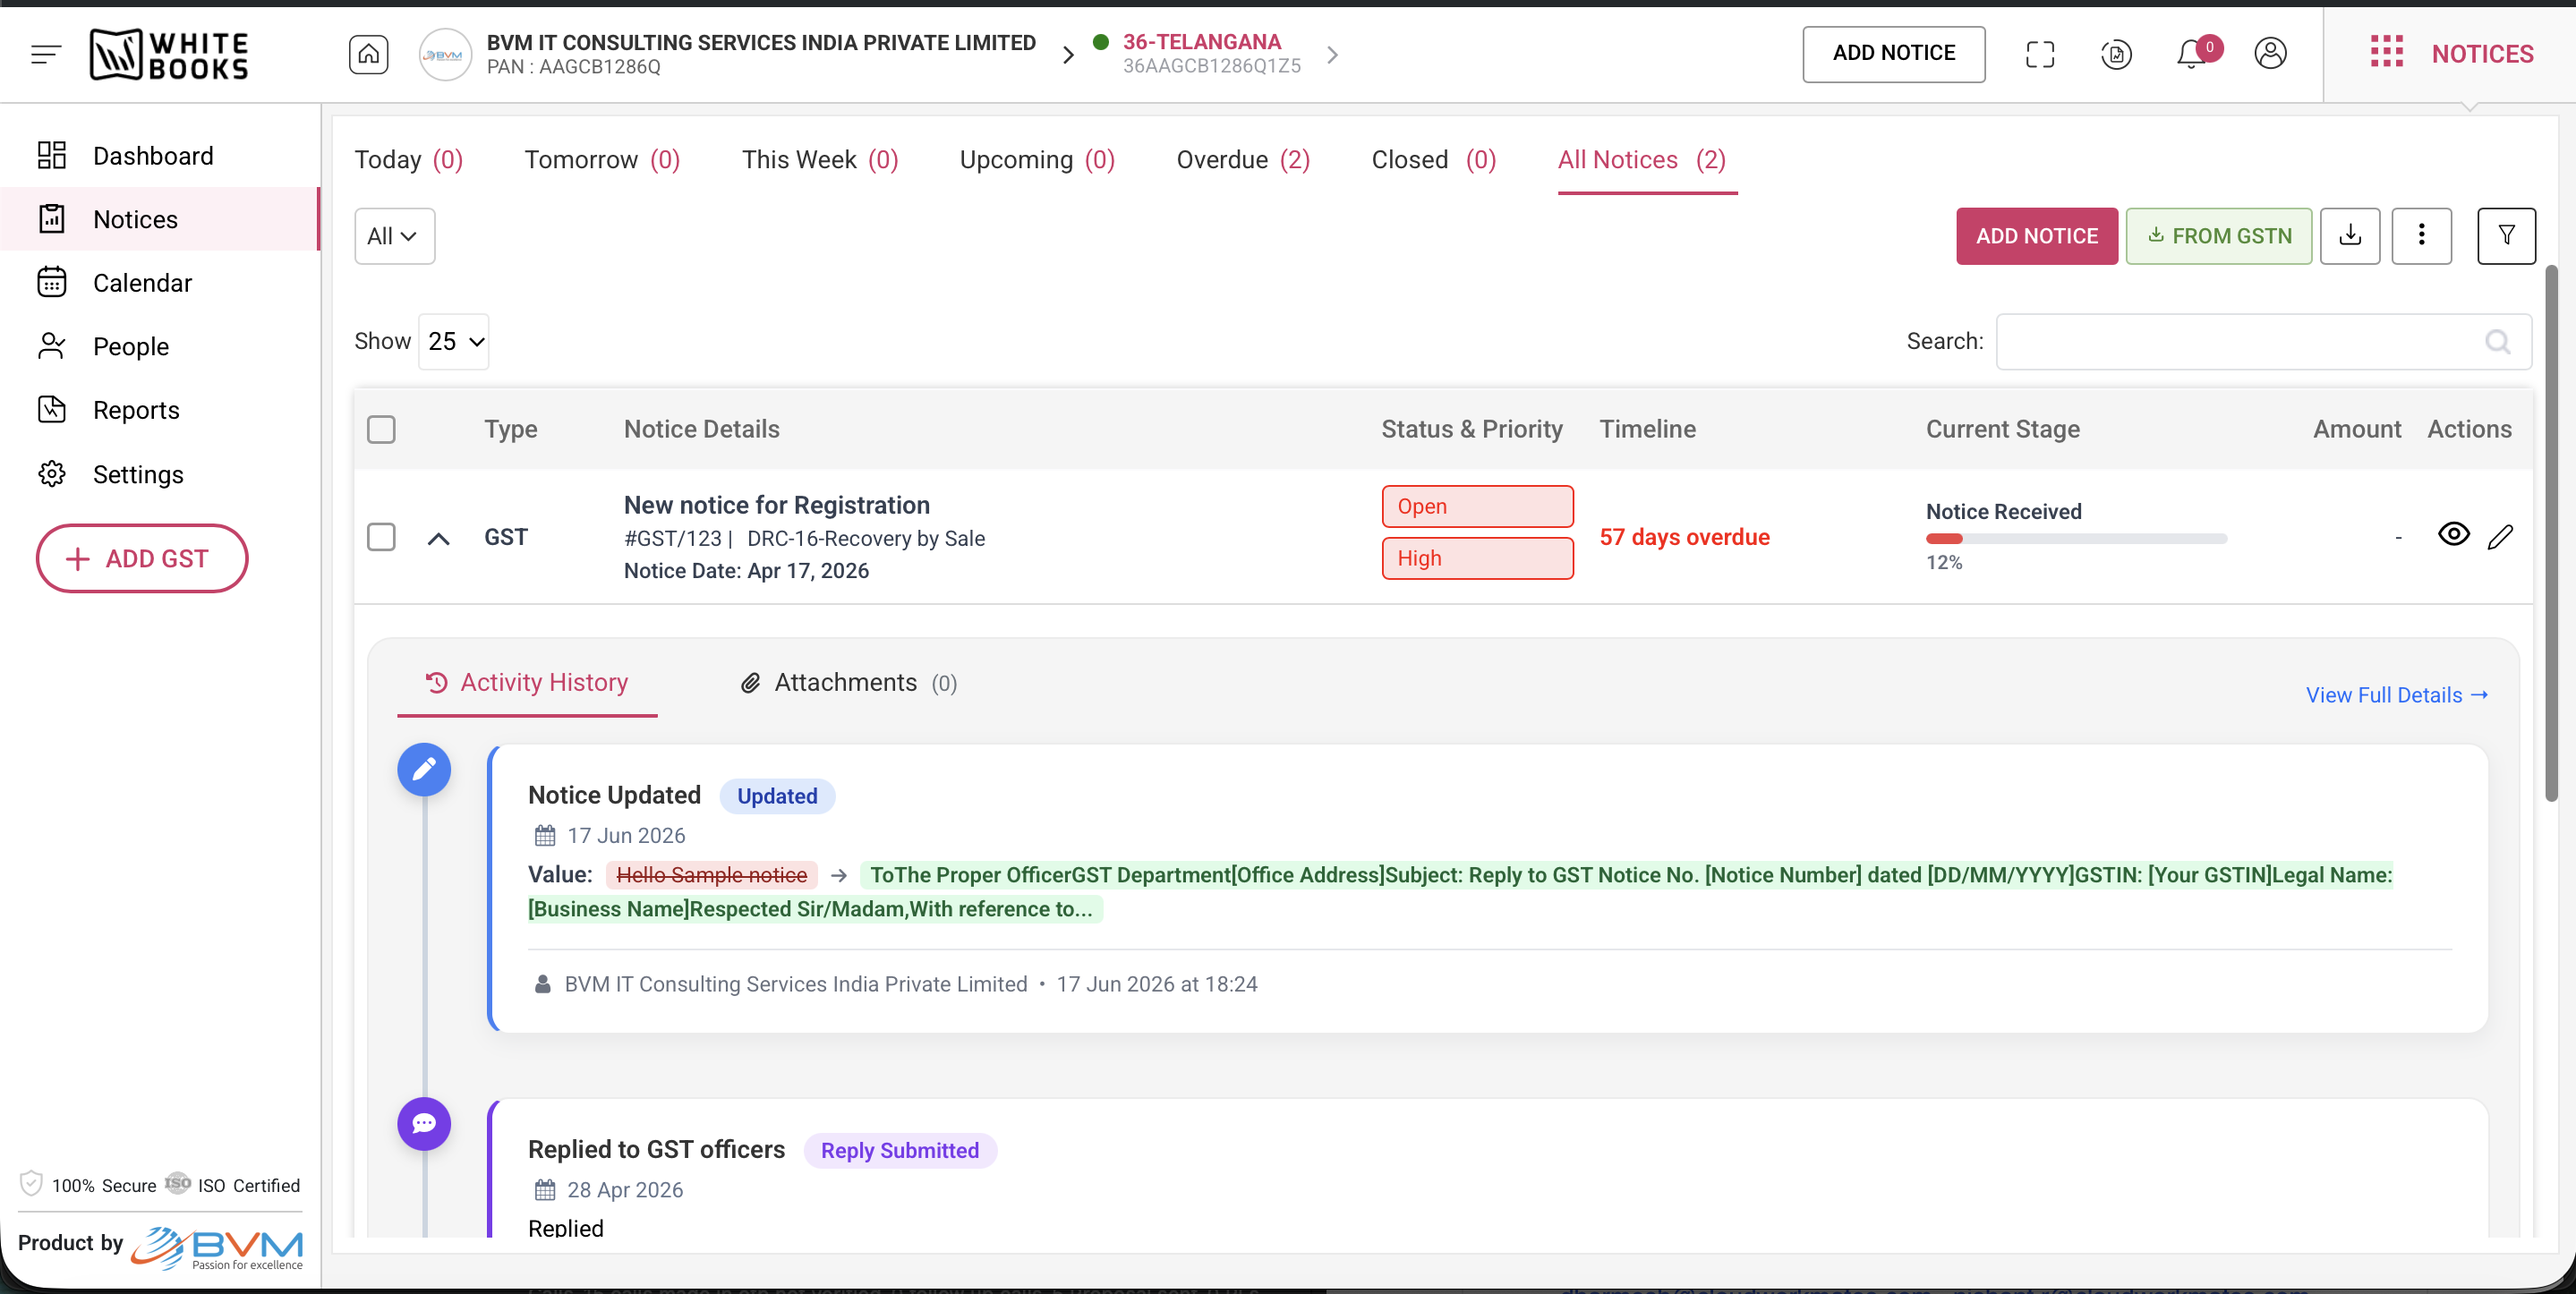
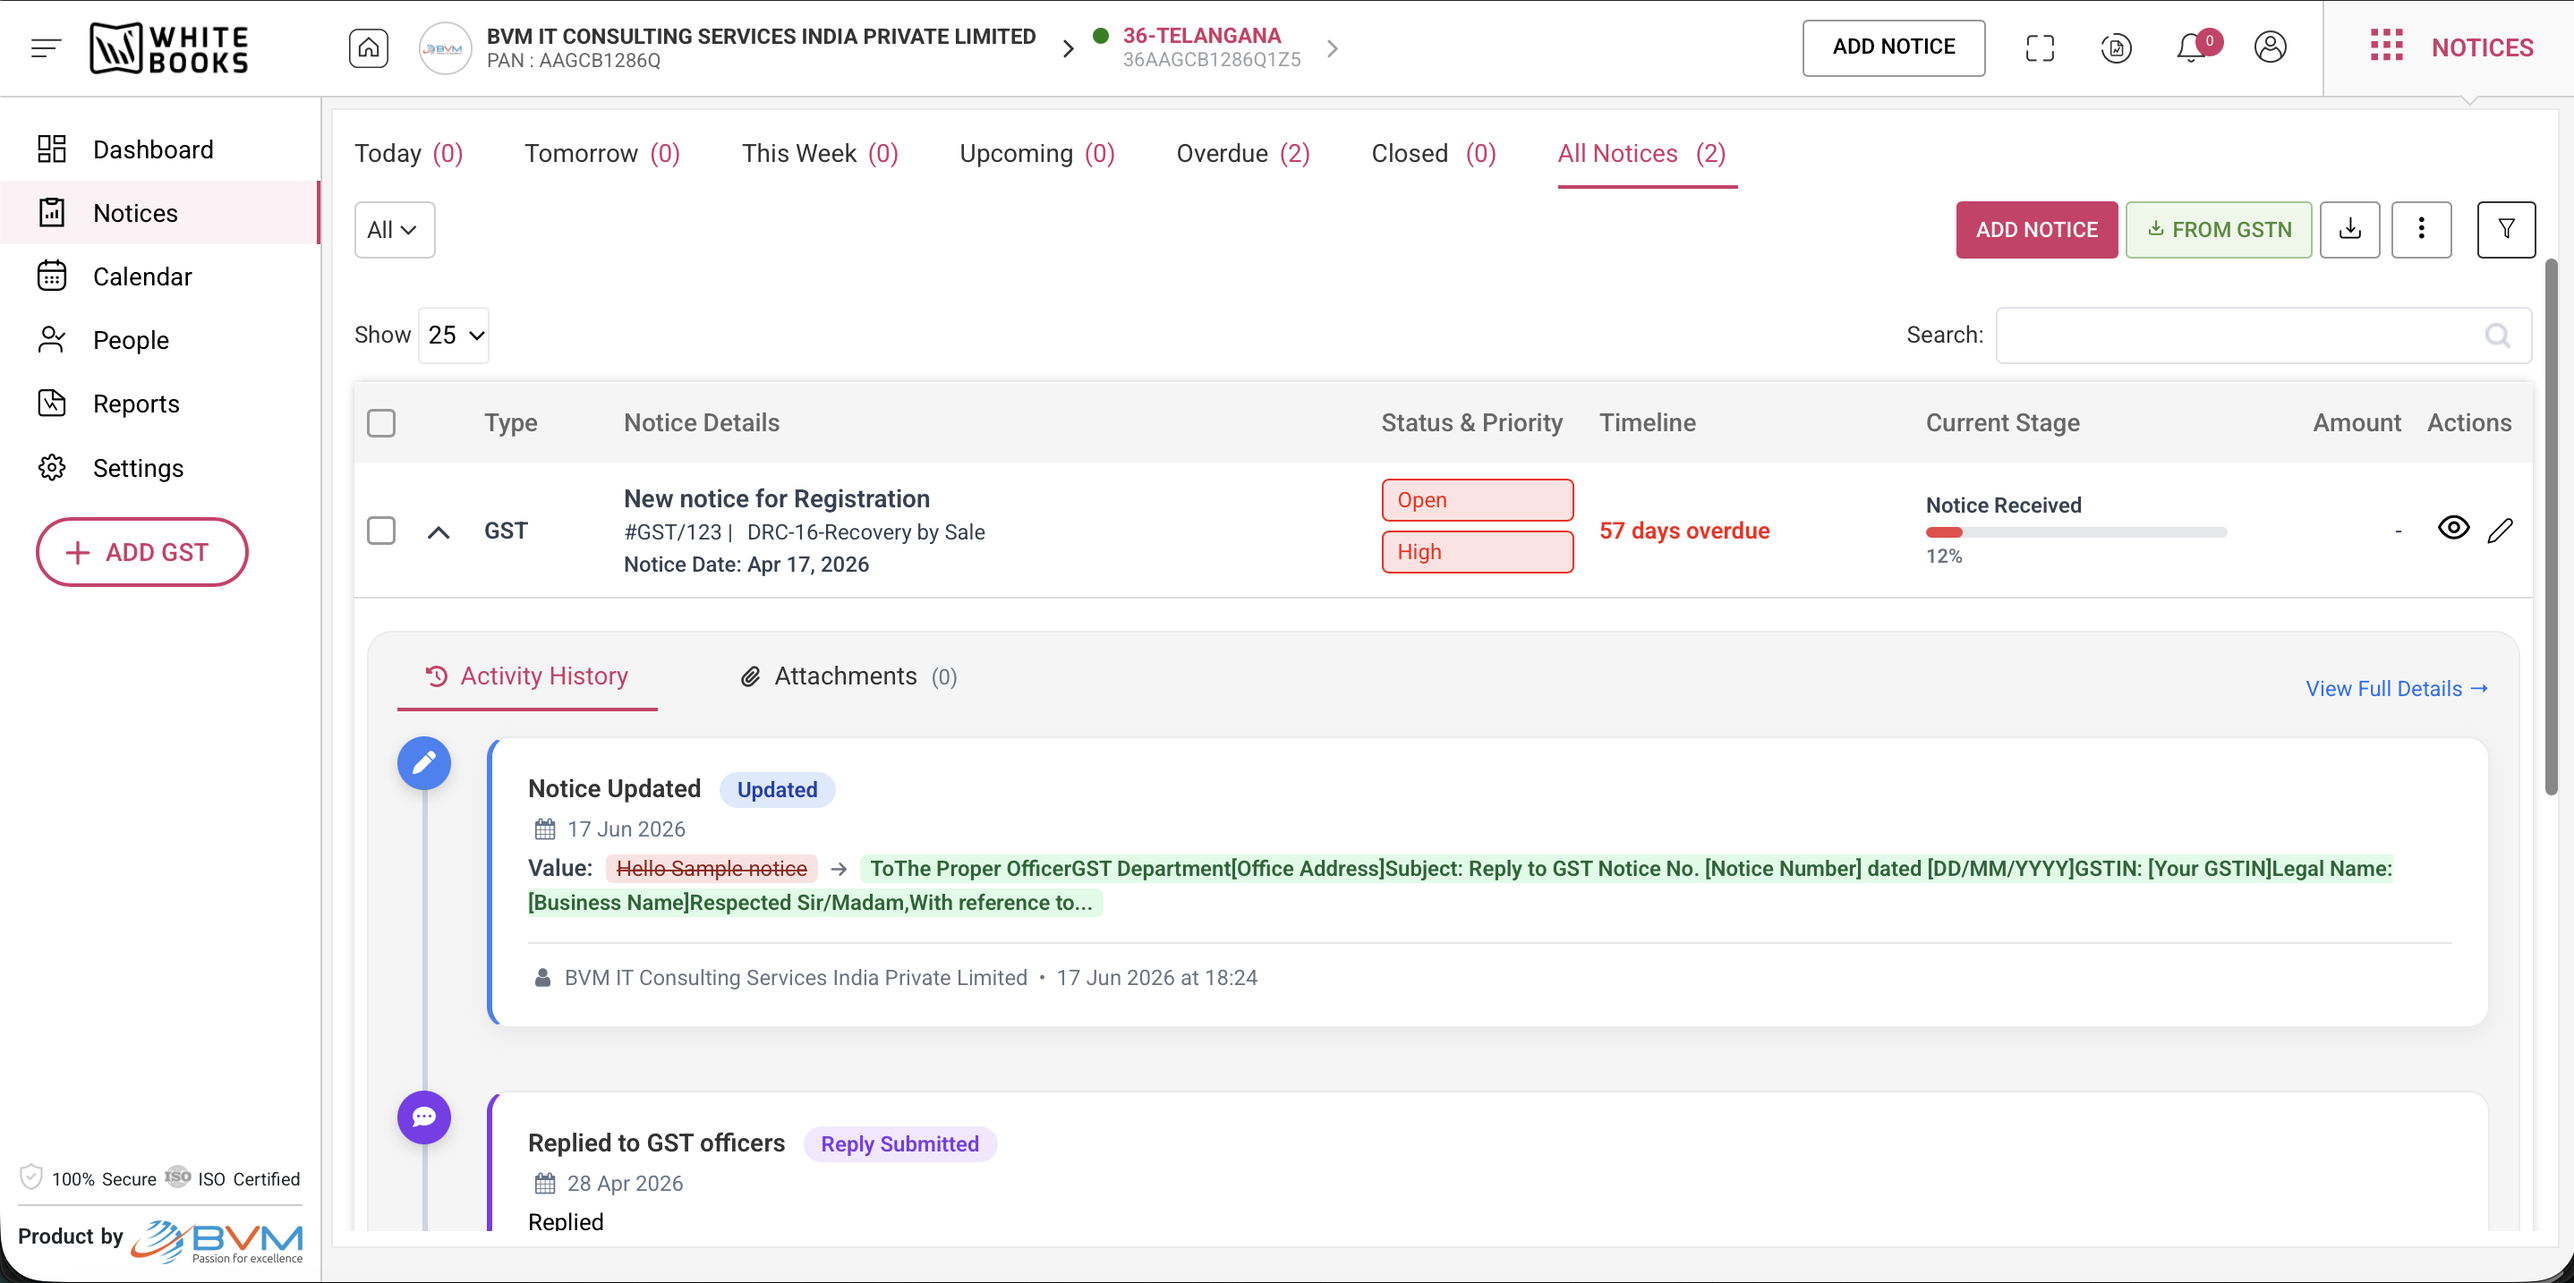
notice management images added

diff --git a/src/pages/notices/NoticeManagement.tsx b/src/pages/notices/NoticeManagement.tsx
@@ -21,7 +21,9 @@ import {
 import { Header, Footer, FluidBackground } from '@/layouts/SiteShell';
 import { ButtonLink } from '@/components/ui/Button';
 import { LOGIN_URL } from '@/utils/contants';
-import gstDashboard1 from '@/assets/product-images/gst-software/gst-dashboard-1.png';
+import noticeDashboard from '@/assets/product-images/notice-management/notice-management-dashboard.png';
+import noticeInbox from '@/assets/product-images/notice-management/notice-management-notices.png';
+import noticeAddReply from '@/assets/product-images/notice-management/notice-management-add-reply.png';
 import { SeoBreadcrumb } from '@/seo/components/SeoBreadcrumb';
 import { BreadcrumbItem } from '@/types/pages';
 import EyebrowPill from '@/components/ui/EyebrowPill';
@@ -238,9 +240,9 @@ export default function NoticeManagement() {
               {/* Live inbox preview */}
               <div className="mt-[10px] max-[1000px]:mt-0">
                 <img
-                  src={gstDashboard1}
-                  alt="WhiteBooks Notice Inbox dashboard"
-                  className="w-full rounded-2xl border border-[var(--line)] object-cover aspect-[1.62/1]"
+                  src={noticeDashboard}
+                  alt="WhiteBooks Notice Management dashboard showing total notices, overdue count, department-wise breakdown, and notice processing funnel"
+                  className="w-full rounded-2xl border border-[var(--line)] object-cover object-top aspect-[1.62/1]"
                 />
               </div>
             </div>
@@ -265,6 +267,80 @@ export default function NoticeManagement() {
                 </div>
               );
             })}
+          </div>
+        </section>
+        {/* ── Product showcase ──────────────────────────────────────────────── */}
+        <section className="bg-[var(--bg)] py-20">
+          <div className="mx-auto max-w-[1180px] px-8">
+            <div className="mb-16 text-center">
+              <p className="mb-3 text-[13px] font-semibold uppercase tracking-[0.08em] text-[var(--brand)]">See it in action</p>
+              <h2 className="m-0 mb-4 font-[var(--font-display)] text-4xl font-semibold tracking-[-0.025em] text-[var(--text)]">Built for the way your firm works</h2>
+              <p className="mx-auto max-w-[540px] text-[17px] text-[var(--muted-2)]">A single, organised inbox for every notice — and an in-app editor to draft and file your responses.</p>
+            </div>
+
+            {/* Row 1 — notice inbox (image left, copy right) */}
+            <div className="mb-20 grid grid-cols-1 items-center gap-12 md:grid-cols-2">
+              <div className="overflow-hidden rounded-xl border border-[var(--line)] bg-[var(--bg-elev)] shadow-[0_18px_40px_-24px_rgba(0,0,0,0.35)]">
+                <img
+                  src={noticeInbox}
+                  alt="WhiteBooks notice inbox listing GST notices with status, priority, timeline, and activity history"
+                  className="w-full object-cover object-top"
+                />
+              </div>
+              <div>
+                <span className="rounded px-2.5 py-1 text-[11px] font-bold tracking-[0.05em]" style={{ background: 'var(--brand-soft)', color: 'var(--brand)' }}>UNIFIED INBOX</span>
+                <h3 className="m-0 mb-3 mt-4 font-[var(--font-display)] text-[28px] font-semibold tracking-[-0.02em] text-[var(--text)]">One inbox for every notice</h3>
+                <p className="mb-7 text-base text-[var(--muted-2)]">
+                  Filter by Today, This Week, Overdue, or Closed. Every notice shows its status, priority, timeline, and current stage at a glance — with a full activity history for each case.
+                </p>
+                <ul className="m-0 flex list-none flex-col gap-3 p-0">
+                  {[
+                    'Deadline-based views — Today, This Week, Overdue',
+                    'Status, priority, and processing stage on every row',
+                    'Complete activity trail per notice',
+                  ].map((pt) => (
+                    <li key={pt} className="flex items-start gap-2.5 text-sm text-[var(--text)]">
+                      <span className="mt-px flex h-5 w-5 shrink-0 items-center justify-center rounded-full bg-[var(--brand-soft)] text-[var(--brand)]">
+                        <Check size={11} strokeWidth={3} />
+                      </span>
+                      {pt}
+                    </li>
+                  ))}
+                </ul>
+              </div>
+            </div>
+
+            {/* Row 2 — reply editor (copy left, image right) */}
+            <div className="grid grid-cols-1 items-center gap-12 md:grid-cols-2">
+              <div className="order-2 md:order-1">
+                <span className="rounded px-2.5 py-1 text-[11px] font-bold tracking-[0.05em]" style={{ background: 'var(--brand-soft)', color: 'var(--brand)' }}>REPLY EDITOR</span>
+                <h3 className="m-0 mb-3 mt-4 font-[var(--font-display)] text-[28px] font-semibold tracking-[-0.02em] text-[var(--text)]">Draft & file responses in-app</h3>
+                <p className="mb-7 text-base text-[var(--muted-2)]">
+                  Reply to a notice without leaving WhiteBooks. Notice details, tax period, and authority info sit alongside a rich editor — or generate a first draft in one click, then submit.
+                </p>
+                <ul className="m-0 flex list-none flex-col gap-3 p-0">
+                  {[
+                    'Notice details & authority info in context',
+                    'Rich-text reply editor with formatting',
+                    'One-click draft generation, then submit',
+                  ].map((pt) => (
+                    <li key={pt} className="flex items-start gap-2.5 text-sm text-[var(--text)]">
+                      <span className="mt-px flex h-5 w-5 shrink-0 items-center justify-center rounded-full bg-[var(--brand-soft)] text-[var(--brand)]">
+                        <Check size={11} strokeWidth={3} />
+                      </span>
+                      {pt}
+                    </li>
+                  ))}
+                </ul>
+              </div>
+              <div className="order-1 overflow-hidden rounded-xl border border-[var(--line)] bg-[var(--bg-elev)] shadow-[0_18px_40px_-24px_rgba(0,0,0,0.35)] md:order-2">
+                <img
+                  src={noticeAddReply}
+                  alt="WhiteBooks Add Reply screen with notice details, tax period, and a rich-text notice reply editor"
+                  className="w-full object-cover object-top"
+                />
+              </div>
+            </div>
           </div>
         </section>
 
